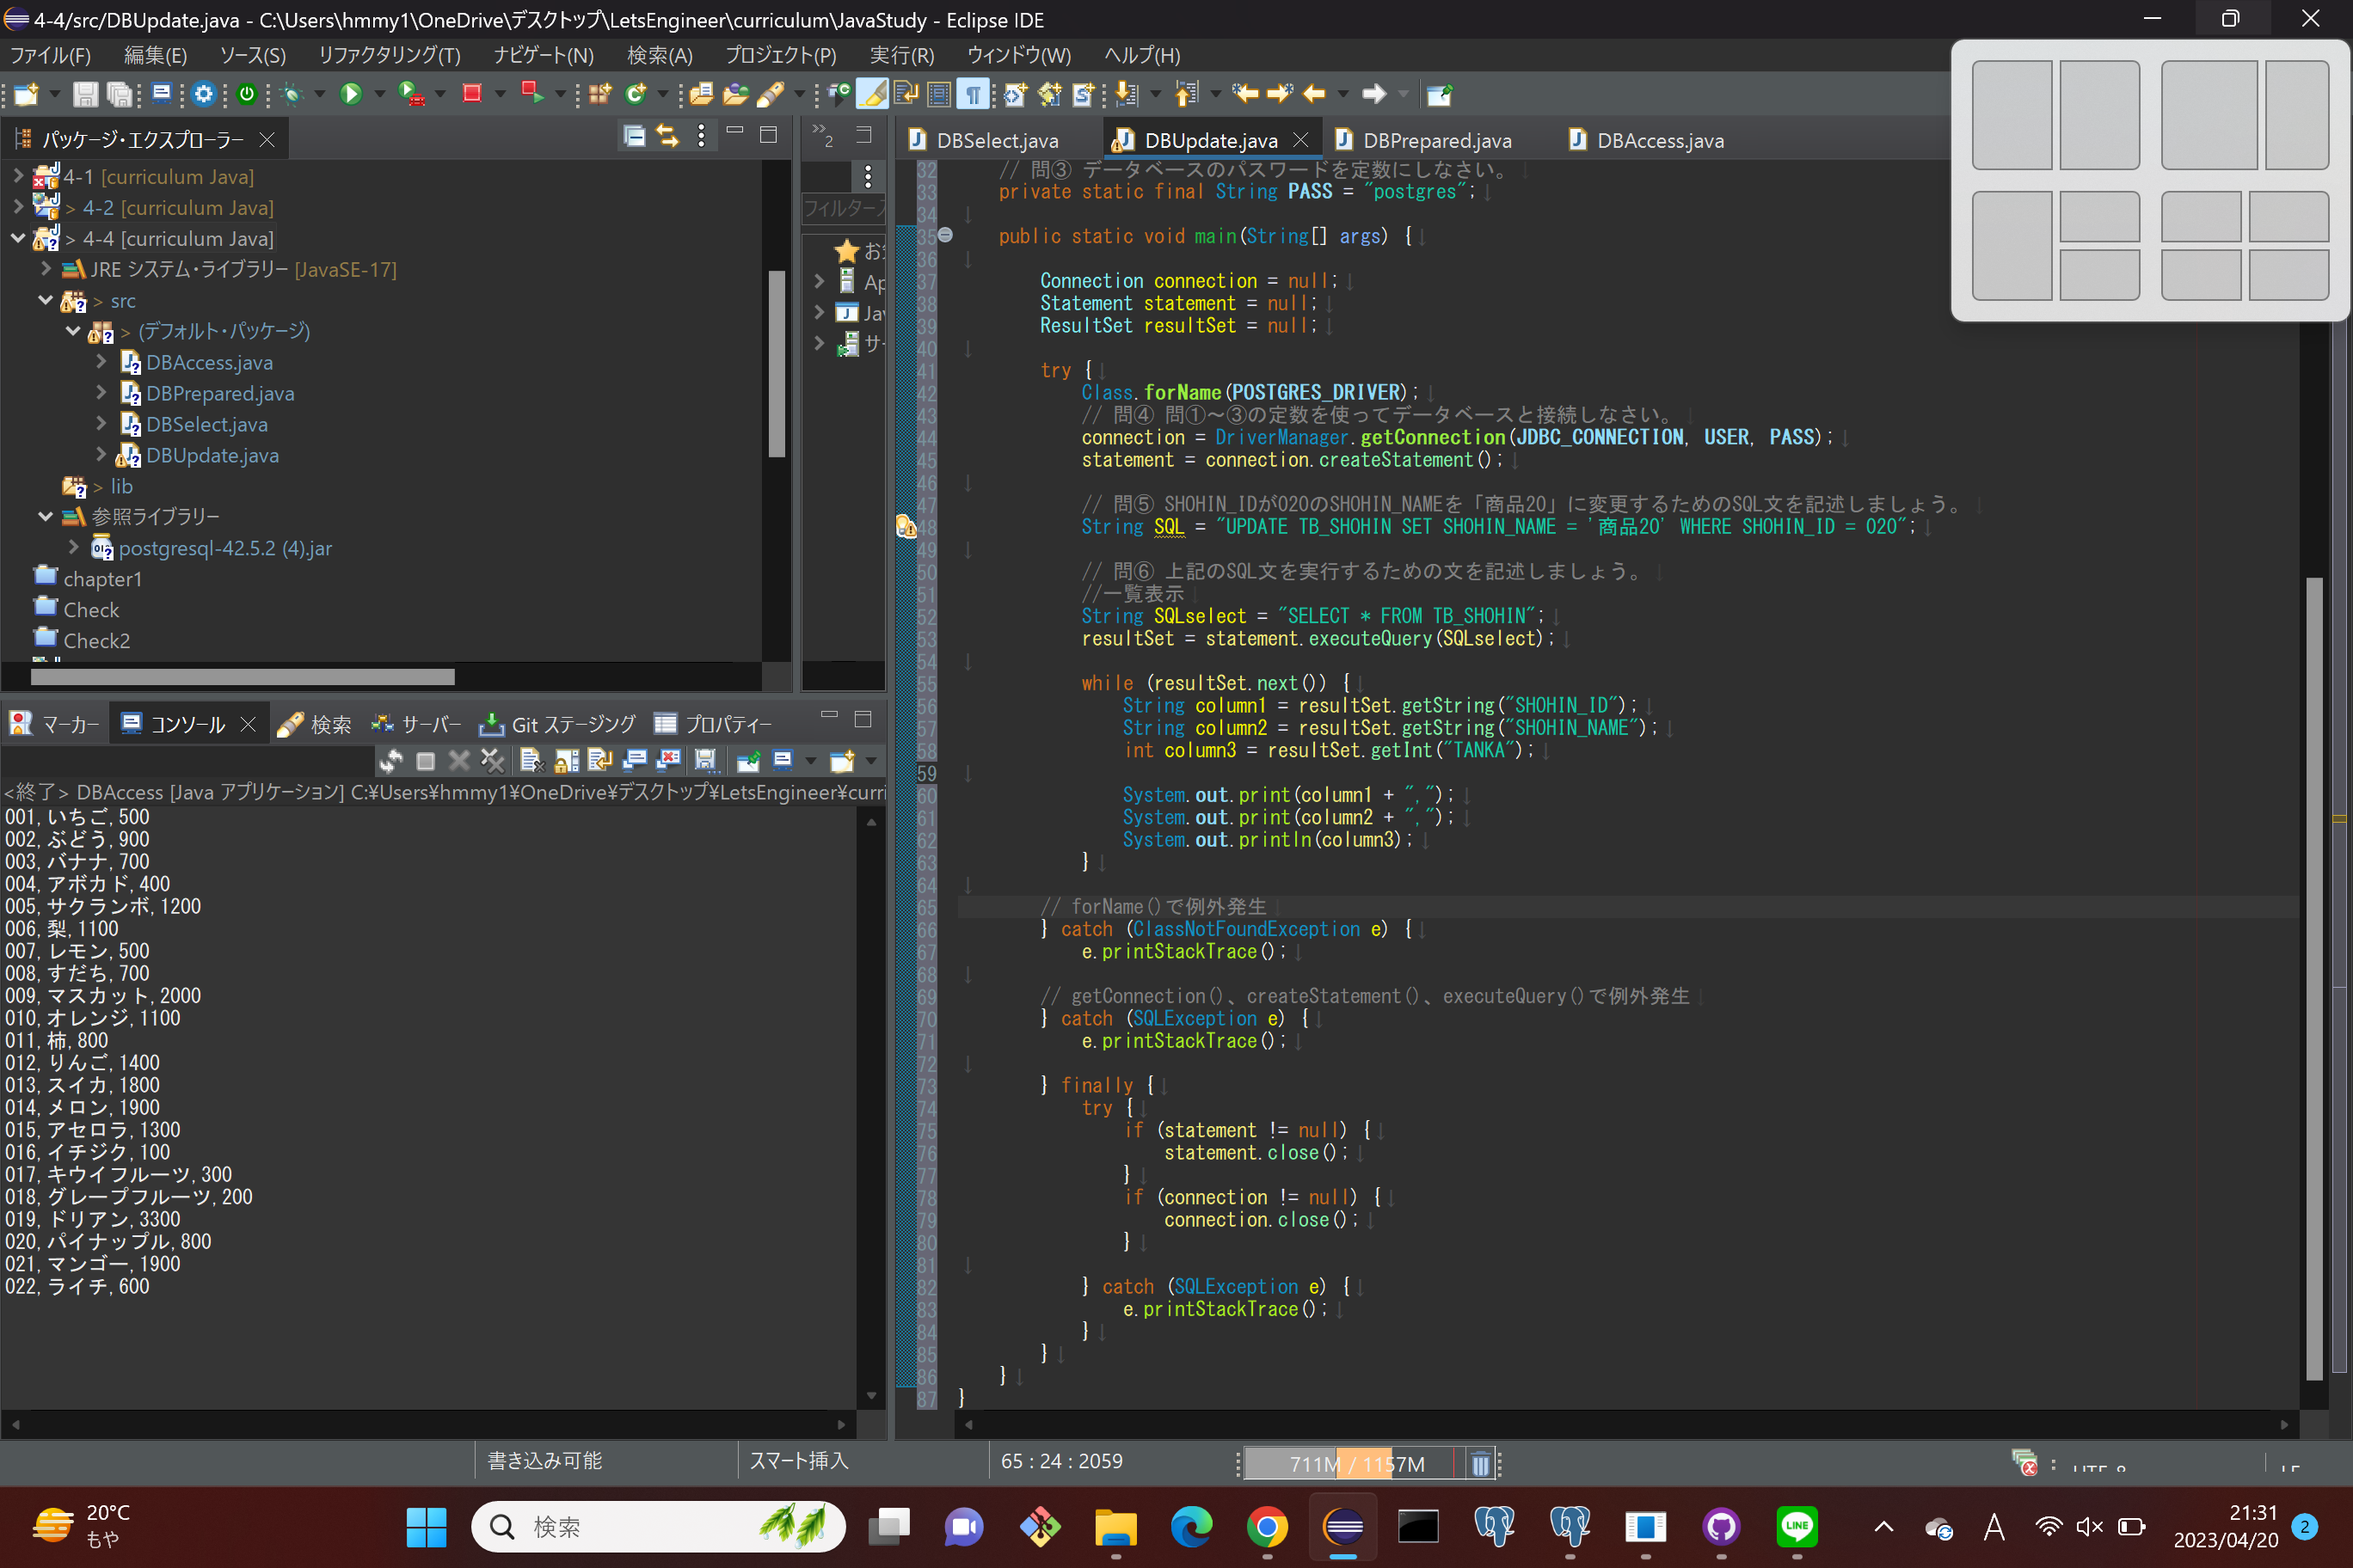
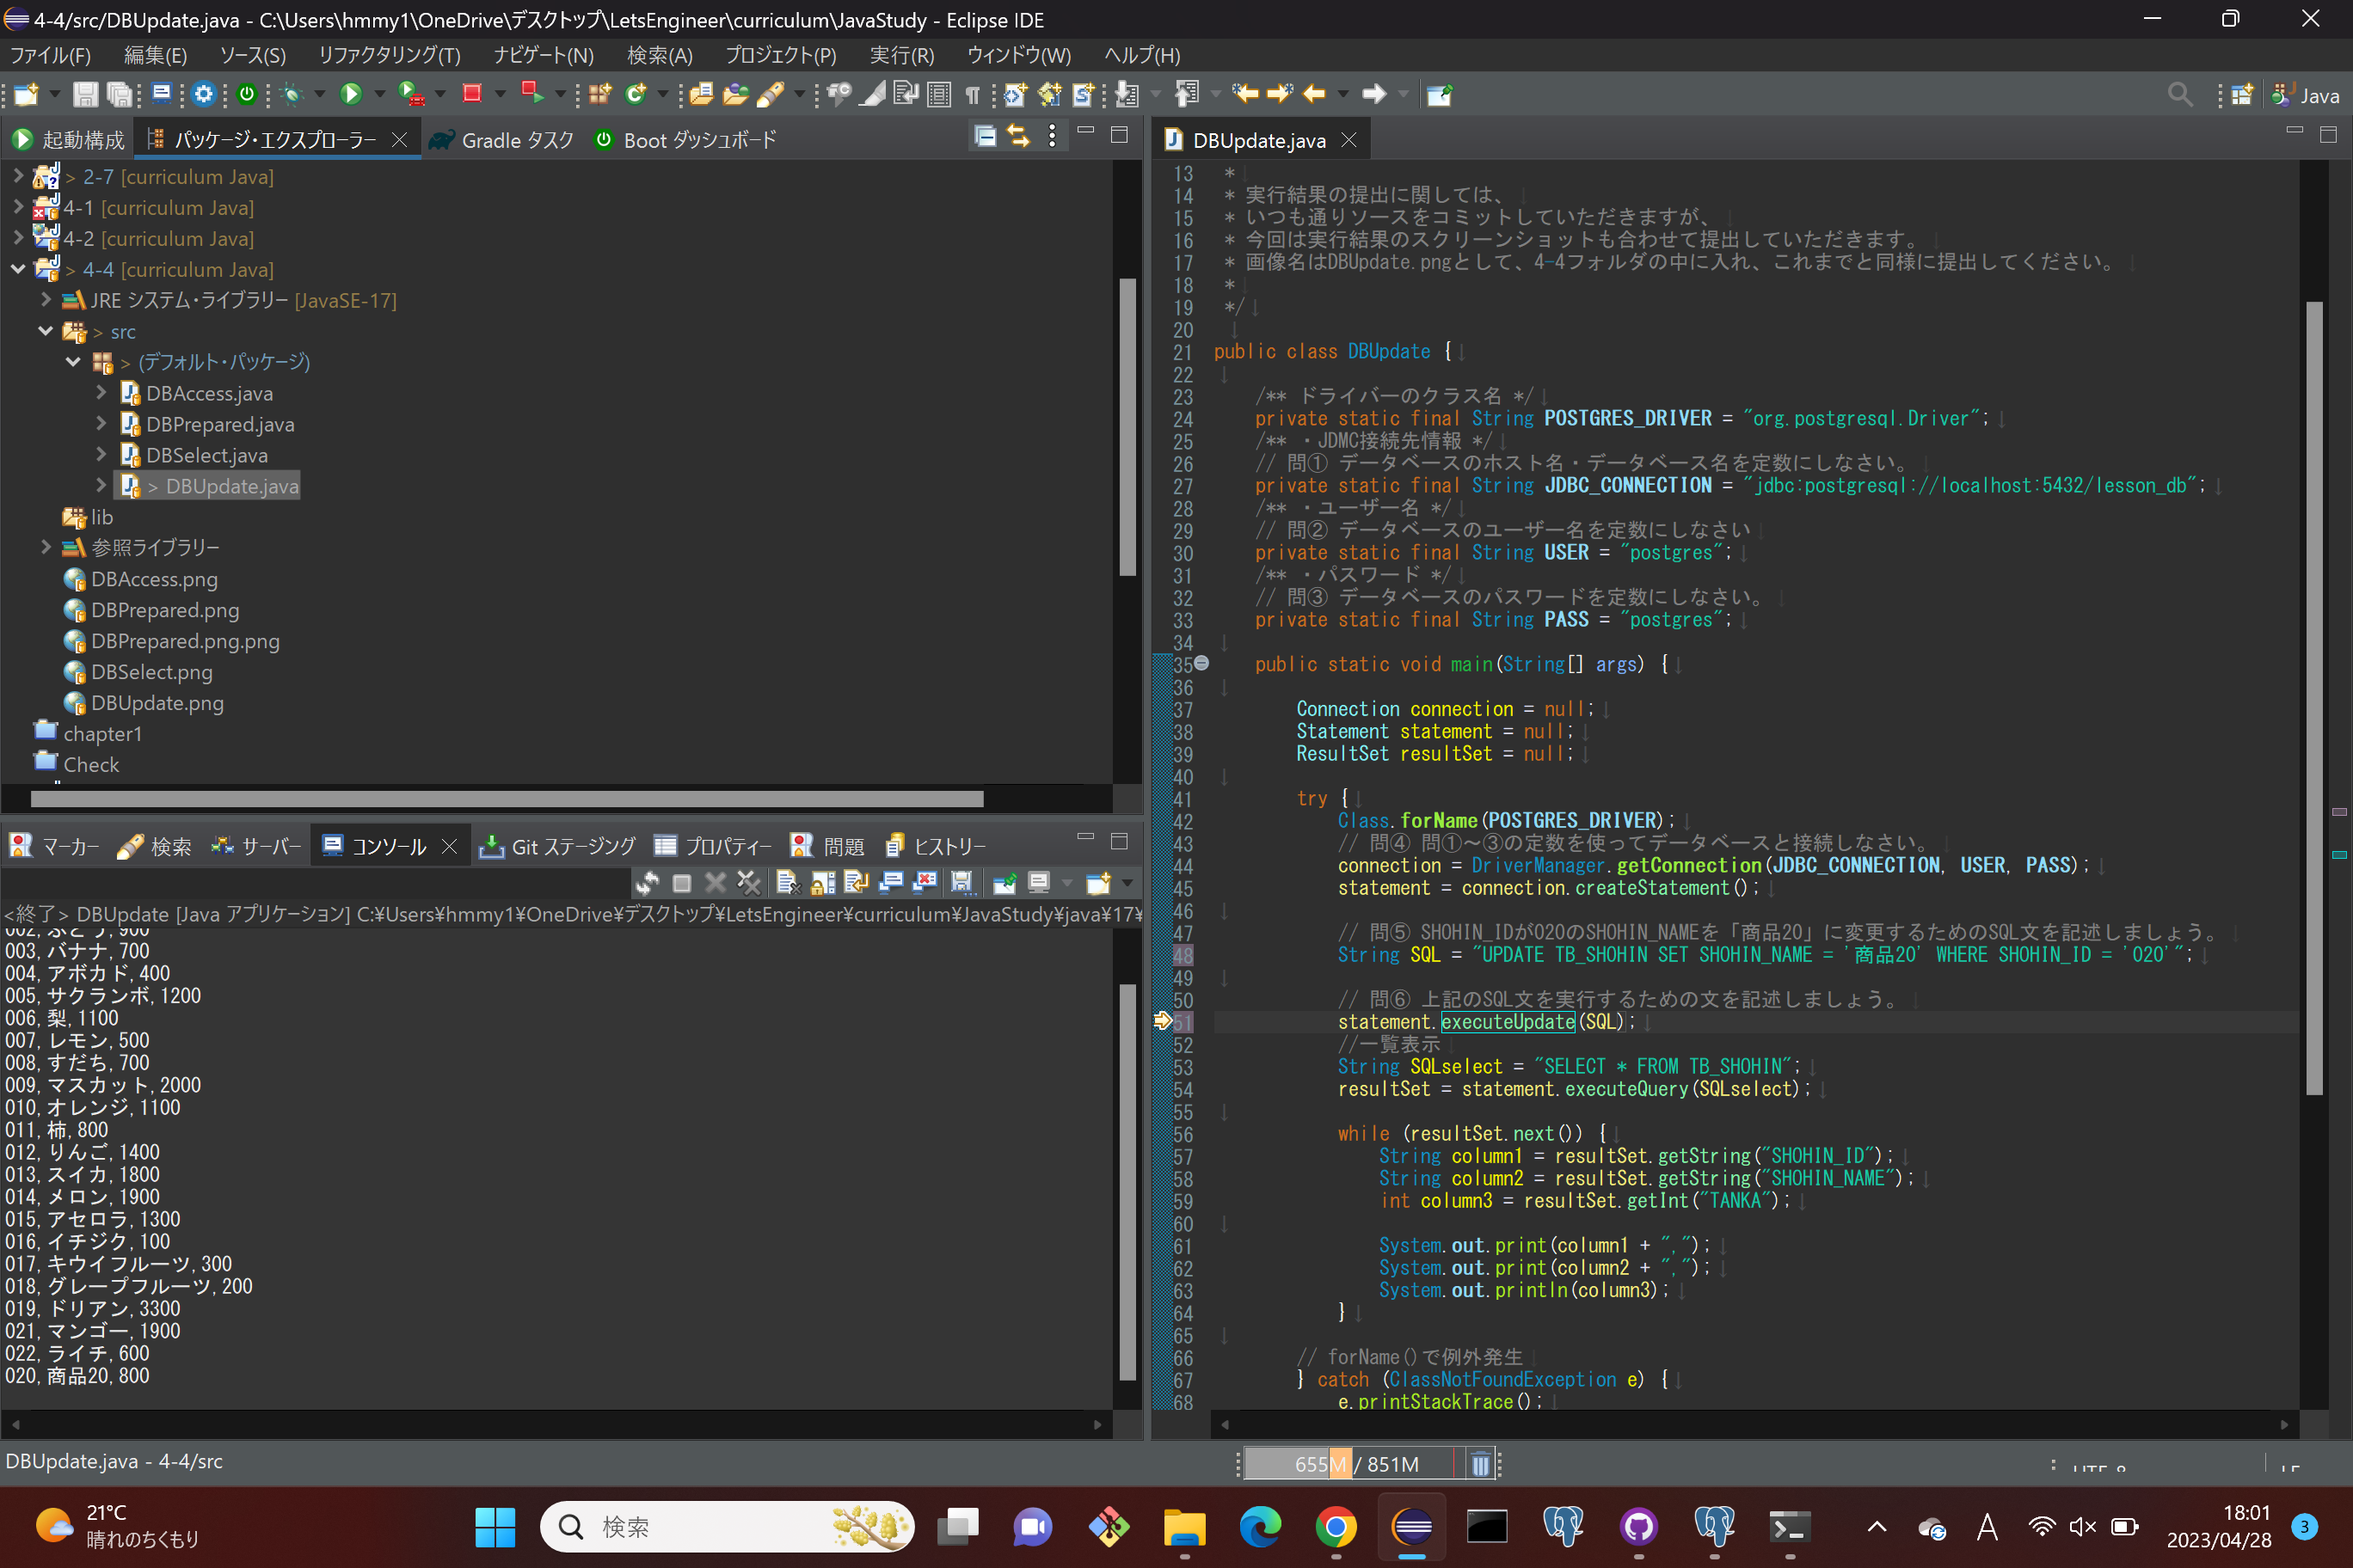
4-4課題提出

diff --git a/JavaStudy/4-4/src/DBUpdate.java b/JavaStudy/4-4/src/DBUpdate.java
@@ -45,10 +45,10 @@ public class DBUpdate {
             statement = connection.createStatement();
 
             // 問⑤ SHOHIN_IDが020のSHOHIN_NAMEを「商品20」に変更するためのSQL文を記述しましょう。
-            String SQL = "UPDATE TB_SHOHIN SET SHOHIN_NAME = '商品20' WHERE SHOHIN_ID = 020";
+            String SQL = "UPDATE TB_SHOHIN SET SHOHIN_NAME = '商品20' WHERE SHOHIN_ID = '020'";
 
             // 問⑥ 上記のSQL文を実行するための文を記述しましょう。
-            resultSet = statement.executeQuery(SQL);
+            statement.executeUpdate(SQL);
             //一覧表示
             String SQLselect = "SELECT * FROM TB_SHOHIN";
             resultSet = statement.executeQuery(SQLselect);
